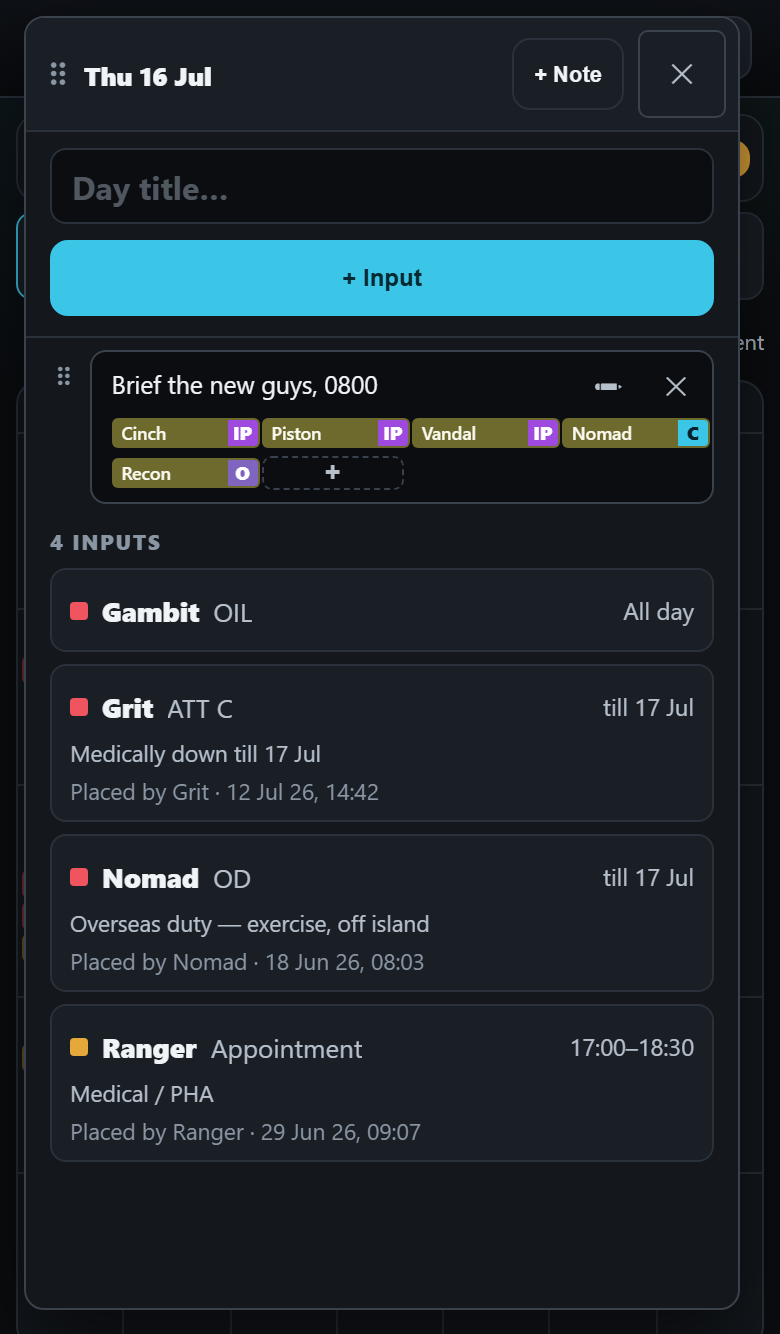
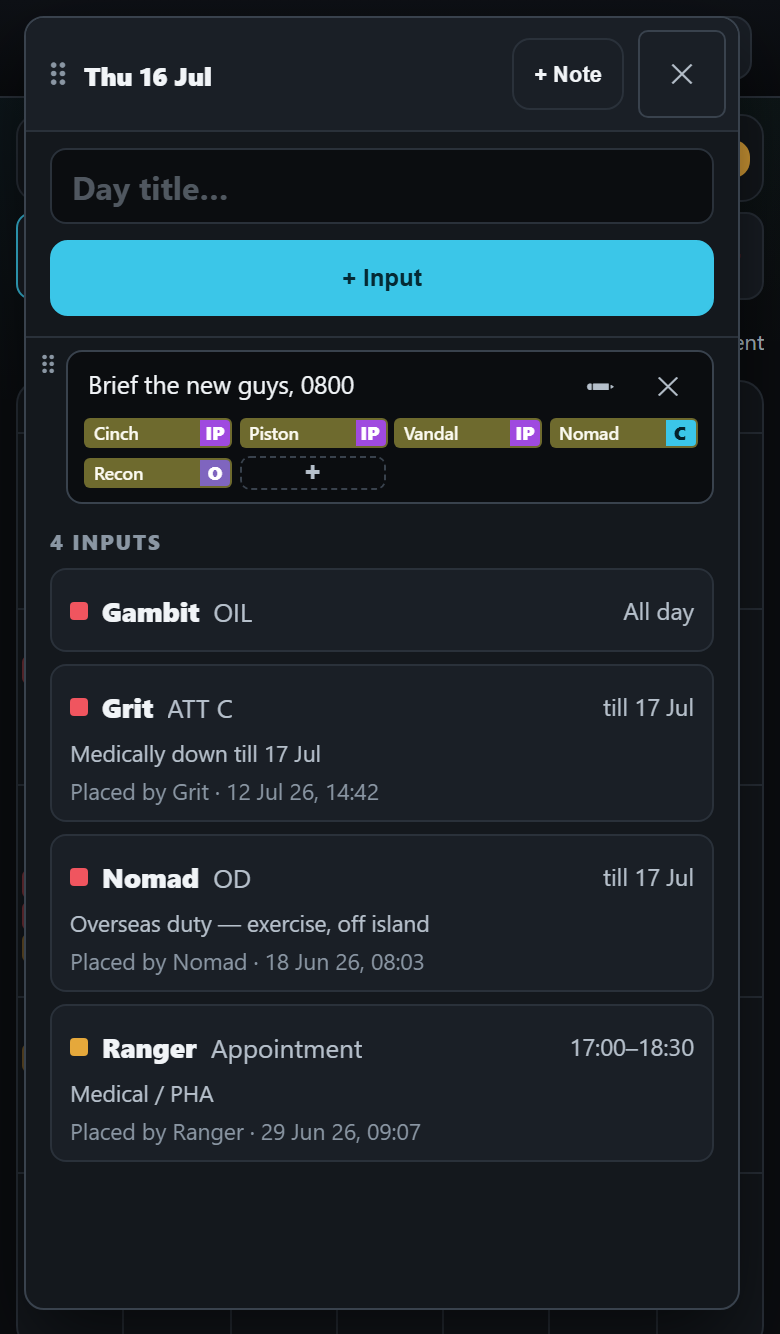
The note with its own pucks: even room either side of four pucks (D694)
"Can u shift the 6 dots to the left abit and shift the left text box border
slightly to the left such that when there is 4 pucks in a row, the right puck
spacing is the same as the left puck spacing." Redrawn: the first puck 9px
from the left border, the fourth 8.5px from the right.

Docs, a picture and the mock-up maker only - no file under raptor-port/src.

diff --git a/raptor-port/docs/mock/note-with-pucks.html b/raptor-port/docs/mock/note-with-pucks.html
@@ -61,7 +61,7 @@
     <div class="pair">
       <figure>
         <button type="button" data-zoom="img/note-with-pucks/c-compact.png" aria-label="Open picture: compact"><img src="img/note-with-pucks/c-compact.png" alt="Compact: the note's words on one slim line with a small pencil and cross, its five pucks four across straight under them with a dashed plus as the last, then the day's four inputs."></button>
-        <figcaption><span class="tag pick">A · Compact — chosen</span><b>People shown, four across</b><span><span class="size">77</span> points, down from 86. The line of words is now as slim as the box a note is typed in; the pencil and the cross are drawn small beside it.</span></figcaption>
+        <figcaption><span class="tag pick">A · Compact — chosen</span><b>People shown, four across</b><span><span class="size">77</span> points. The line of words is as slim as the box a note is typed in. The six dots and the box’s left edge are moved left, so four pucks sit with the same room on the right as on the left.</span></figcaption>
       </figure>
     </div>
     <p class="note">B, folded to one line, is not taken.</p>

diff --git a/DECISIONS.md b/DECISIONS.md
@@ -60,7 +60,7 @@ ruling, or an explicit no. **Not** ordinary task instructions ("run the tests", 
 | Tracker | `.claude/rules/decisions/tracker.md` | when a Tracker file is read (its code, docs, scripts, evidence) | D566, D564, D560, D474, D464, D462, D463, D377, D376, D375, D374, D373, D372, D371, D370, D191, D158, D157, D134, D132, D131, D130, D129, D128, D127, D126, D124, D123, D122, D121, D120, D64 |
 | People & accounts | `.claude/rules/decisions/people-accounts.md` | when an accounts, sign-in, Admin → Users, Quals, one-door or posting file is read (D390) | D329, D328, D327, D326, D325, D323, D322, D321, D320, D310, D309, D308, D307, D306, D305, D304, D303, D301, D300, D299, D298, D297, D296, D295, D294, D293, D292, D291, D290, D289, D288, D287, D286, D285, D284, D283, D282, D281, D280, D229, D227, D226, D225, D224, D223, D222, D221, D220, D219, D217, D216, D215, D214, D213, D211, D210, D204, D200, D218, D166, D165, D149 |
 | Leave War | `.claude/rules/decisions/leave-war.md` | when a Leave War file is read (its code, docs, e2e, evidence) | D679, D678, D677, D676, D674, D673, D670, D669, D461, D460, D418, D352, D365, D335, D334, D333, D332, D331, D330, D267, D266, D265, D264, D262, D160, D159 |
-| Scheduler & amendments | `.claude/rules/decisions/scheduler.md` | when a scheduler, board, engine, amendment or storage file is read | D693, D692, D691, D690, D689, D688, D687, D686, D685, D684, D683, D682, D681, D675, D671, D668, D665, D664, D663, D662, D661, D660, D659, D658, D657, D656, D655, D654, D653, D652, D651, D650, D649, D648, D647, D646, D645, D644, D643, D642, D641, D640, D639, D638, D637, D636, D635, D634, D633, D632, D631, D630, D629, D628, D627, D626, D624, D622, D621, D620, D619, D618, D617, D605, D603, D600, D599, D598, D597, D594, D593, D585, D584, D583, D582, D581, D580, D579, D578, D577, D576, D575, D574, D573, D572, D571, D570, D569, D563, D562, D561, D558, D557, D555, D554, D553, D552, D551, D550, D548, D547, D546, D545, D544, D537, D535, D532, D531, D530, D529, D527, D526, D525, D524, D523, D522, D521, D520, D519, D518, D517, D516, D514, D513, D512, D511, D510, D509, D507, D506, D505, D504, D503, D502, D501, D500, D498, D497, D488, D482, D481, D479, D478, D477, D475, D472, D471, D469, D468, D454, D452, D451, D450, D356, D355, D367, D364, D363, D362, D361, D360, D346, D345, D344, D340, D339, D338, D337, D279, D278, D277, D276, D275, D274, D272, D271, D270, D263, D212, D189, D188, D187, D186, D185, D184, D183, D179, D178, D177, D176, D175, D174, D172, D171, D170, D169, D168, D167, D119, D118, D117, D116, D114, D113, D111, D110, D109, D108, D107, D105, D103, D102, D101, D100, D99, D98, D97, D96, D95, D94, D93, D92, D91, D164, D161, D77, D66, D65, D51, D50, D47, D45, D44, D41, D40, D39, D38, D37, D36, D33, D27 |
+| Scheduler & amendments | `.claude/rules/decisions/scheduler.md` | when a scheduler, board, engine, amendment or storage file is read | D694, D693, D692, D691, D690, D689, D688, D687, D686, D685, D684, D683, D682, D681, D675, D671, D668, D665, D664, D663, D662, D661, D660, D659, D658, D657, D656, D655, D654, D653, D652, D651, D650, D649, D648, D647, D646, D645, D644, D643, D642, D641, D640, D639, D638, D637, D636, D635, D634, D633, D632, D631, D630, D629, D628, D627, D626, D624, D622, D621, D620, D619, D618, D617, D605, D603, D600, D599, D598, D597, D594, D593, D585, D584, D583, D582, D581, D580, D579, D578, D577, D576, D575, D574, D573, D572, D571, D570, D569, D563, D562, D561, D558, D557, D555, D554, D553, D552, D551, D550, D548, D547, D546, D545, D544, D537, D535, D532, D531, D530, D529, D527, D526, D525, D524, D523, D522, D521, D520, D519, D518, D517, D516, D514, D513, D512, D511, D510, D509, D507, D506, D505, D504, D503, D502, D501, D500, D498, D497, D488, D482, D481, D479, D478, D477, D475, D472, D471, D469, D468, D454, D452, D451, D450, D356, D355, D367, D364, D363, D362, D361, D360, D346, D345, D344, D340, D339, D338, D337, D279, D278, D277, D276, D275, D274, D272, D271, D270, D263, D212, D189, D188, D187, D186, D185, D184, D183, D179, D178, D177, D176, D175, D174, D172, D171, D170, D169, D168, D167, D119, D118, D117, D116, D114, D113, D111, D110, D109, D108, D107, D105, D103, D102, D101, D100, D99, D98, D97, D96, D95, D94, D93, D92, D91, D164, D161, D77, D66, D65, D51, D50, D47, D45, D44, D41, D40, D39, D38, D37, D36, D33, D27 |
 | OIL | `.claude/rules/decisions/oil.md` | when an OIL, Leave War, placeholder-puck or publishing file is read | D606, D592, D591, D470, D402, D401, D400, D261, D260, D163, D142, D82, D81, D80, D79, D52, D49, D48, D46, D43, D42, D35, D32, D31, D28, D26, D25, D24, D21, D20, D19, D18, D15, D3, D2, D1 |
 | The IT flow guide | `.claude/rules/decisions/it-flow-guide.md` | when a file of the IT flow guide is read (its deck folder, its scripts, its plans) | D403, D417, D416, D415, D414, D413, D412, D411, D410 |
 | Archive | `DECISIONS-ARCHIVE.md` | never — SEARCH it before telling him anything is undecided | D156, D133, D125, D155, D154, D153, D152, D150, D88, D83, D71, D61, D55, D34, D139, D146, D112, D115, D181, D202, D104, D230, D273, D336, D342, D341, D366, D182, D354, D180, D324, D467, D542, D543, D567, D540, D539, D538, D536, D534, D533, D528, D508, D496, D494, D492, D484, D483, D480, D476, D391, D173, D145, D85, D30, D559, D556, D549, D515, D565, D190, D586, D589, D604, D613, D612, D616, D666, D680 |

diff --git a/.claude/decisions-full/scheduler.md b/.claude/decisions-full/scheduler.md
@@ -8,6 +8,7 @@ change tail. Newest first; each row keeps the date it was recorded.
 
 | # | Date | His ruling, in his words where short enough | What it means | Where it lives now |
 |---|---|---|---|---|
+| D694 | 9 Oct 26 | With a picture of drawing A on his iPhone, the six dots and the fourth puck’s right end circled: *"Can u shift the 6 dots to the left abit and shift the left text box border slightly to the left such that when there is 4 pucks in a row, the right puck spacing is the same as the left puck spacing. Right now the right puck space I circled is like touching the border"* | **IN THE NOTE THAT CARRIES ITS OWN PUCKS, FOUR PUCKS IN A ROW SIT WITH THE SAME ROOM ON THE RIGHT AS ON THE LEFT — THE LAST PUCK NEVER TOUCHES THE BOX’S BORDER; THE ROOM IS FOUND BY MOVING THE SIX DOTS, AND THE BOX’S LEFT EDGE, A LITTLE TO THE LEFT.** **The agent’s reading, to tell him:** the pucks keep their size and stay four across; the box grows leftward into the room the six dots give up — its right edge stays in line with the inputs under it. | `OUTSTANDING.md` `[CAL-NOTE-WITH-PUCKS]` (the design he chose, D692, D694) |
 | D693 | 9 Oct 26 | With two pictures from his iPhone of the Inputs tab, the filter button pressed and not — pressed, the gear has dropped to a line of its own under the filter fields and the filter button has slid into its place: *"Why did the setting button move? Can the filter and the setting button stay when the filter button is pressed"* | **ON A PHONE THE FILTER BUTTON AND THE SETTINGS GEAR STAY WHERE THEY ARE WHEN THE FILTERS ARE OPENED — THE FILTER FIELDS OPEN ON THEIR OWN LINE UNDER THE ROW, AND NOTHING ON THE ROW MOVES.** His standing rule of 2 Sep 26 again (a control tapped repeatedly must not move). **The agent’s readings, to tell him:** (1) it moved because the folded-away fields stand between the two buttons, and opened they take a whole line — pushing the gear under them; (2) built by drawing the opened fields after the whole row; the row itself is as it was; (3) a desktop has no filter button (its three fields are always on the row), so nothing changes there. | `raptor-port/docs/ui-contracts.md` ("The Inputs calendar" — its one tools row, D693); `raptor-port/docs/handpass/2026-10-08-inputs-sans-calendar-check.md` §20 |
 | D692 | 9 Oct 26 | Shown the two compact drawings of a note that carries its own pucks (A — people shown, four across; B — folded to one line), with a picture from his iPhone of a note being typed in the built app, its text box one slim line: *"A looks good but can u make the text box even shorter in height. Like u can see that the text box is this much space used only"* | **THE NOTE THAT CARRIES ITS OWN PUCKS IS DRAWING A — COMPACT, ITS PEOPLE SHOWN FOUR ACROSS UNDER ITS WORDS — AND THE LINE THAT HOLDS ITS WORDS IS SLIMMER STILL: NO TALLER THAN THE BOX A NOTE IS TYPED IN.** B (folded to one line) is not taken. **The agent’s readings, to tell him:** (1) the words line was tall because the pencil and the cross beside it were drawn at a full finger’s size; it is redrawn with the line as slim as the typing box and the two buttons small beside it — when it is built their press area can still reach past what is drawn, and how small they may LOOK is his word here (D487); (2) whether a note may hold people and no words is still open — he saw the drawing and has not said. | `OUTSTANDING.md` `[CAL-NOTE-WITH-PUCKS]` (the design he chose, D692) |
 | D691 | 9 Oct 26 | With a picture from his iPhone of "How this works" open on the Inputs calendar, its fifth line reading "File by the end of the Wednesday two weeks before the week.": *"For point 5 u should bold the late input date which is in this case Wednesday two weeks etc"* | **IN "HOW THIS WORKS", THE LATE CUT-OFF AS IT IS SET IS IN BOLD — "THE END OF THE WEDNESDAY TWO WEEKS BEFORE" — SO THE ONE THING A MAN MUST REMEMBER STANDS OUT OF THE SENTENCE.** **The agent’s readings, to tell him:** (1) on both calendars — the Inputs one he pictured and the SANS one, whose approved drawing already marked those words; (2) the bold words are whatever the setting says, and change when it changes (D628): where the cut-off is a number of days it is "at least 3 days before" that is bold; (3) the same bold the other lines of the fold use for "bar", "red" and "several days" — no new colour or box. | `raptor-port/docs/ui-contracts.md` ("The Inputs calendar" — "How this works", D691); `raptor-port/docs/handpass/2026-10-08-inputs-sans-calendar-check.md` §19 |

diff --git a/OUTSTANDING.md b/OUTSTANDING.md
@@ -1658,6 +1658,8 @@ waive owed reads or authorize a live merge.
 
 **THE DESIGN HE CHOSE (D692, 9 Oct 26 — "A looks good but can u make the text box even shorter in height"):** drawing A — COMPACT: the note’s words on one line no taller than the box a note is typed in (28px drawn, the pencil and the cross small beside it), its people four across straight under, a dashed "+" as the last of them; 77px before the first input on a small phone, against today’s 146. B (folded) is not taken. `raptor-port/docs/mock/img/note-with-pucks/c-compact.png` is the picture of record once he has answered the one question left: **may a note hold people and no words** (`e-people-only.png` — drawn for him, not yet answered). Build after the calendar job’s merge (D690).
 
+**AND EVEN ROOM EITHER SIDE (D694, 9 Oct 26):** the six dots and the box’s left edge moved a little left, the box’s sides padded alike, each puck held inside its quarter — in the drawing the first puck stands 9px from the left border and the fourth 8.5px from the right, a puck 74px wide. `c-compact.png` is redrawn so.
+
 ### [CAL-CHECK-SEEN] The small finds of the calendar job's bug check, none fixed (8 Oct 26)
 **Found, not fixed** — each with its walker's report under `raptor-port/docs/handpass/parts/cal-<letter>.md` and pictures under `raptor-port/docs/img/handpass/2026-10-08-inputs-sans-calendar-check/<letter>/`. **A phone on its SIDE (844 × 390):** the number pad covers the Required cell being typed (B); windows lie over the top bar's Undo / Redo, the month's arrows and gear, and the failed-save band's Retry until dragged or closed (A, H); the SANS Highlight list runs off the foot (D). **Gestures:** the first tap after a finger-drag of a counter in Rearrange is ignored, the second works (B — one walker, not seen by the host); Escape pressed during a bar's mouse drag leaves the picked-up copy following the pointer until the next drag (E — one walker, not seen by the host). **Windows:** the "Calendar" window on a 568-tall phone is 588 tall once dragged and brought back, its last week cut (C); Escape on an opened day's Delete question, after a press on the page behind, closes the whole day (C); Escape does nothing while a control on the page behind has the keyboard (the shell's rule, as built — C); a settings window left open stays up when the page is changed (C); "Calendar…" from the SANS day at 1440 lands exactly over that day's window (A). **The editor:** after a bar's drag is undone the "changed while this window was open" note stays, with "theirs" equal to the value at opening (G); a reader's OIL row draws a "Change…" button that cannot be pressed (F); with the members' switch off the filer is told "Only <himself> — who filed it — or an admin can change this" and offered "Take me out" (F); a group's OIL question after a drag is titled with one man's name (F). **The List:** its row does not flash on Undo or Redo where a month's bar does (E). **Outside this job, seen in passing:** the Quals save toast reads "Quals saved (prototype — writes to Dataverse in the full build)" — a prototype caveat on screen (the 25 Aug 26 rule: UI copy reads production) (D). **As filed:** low, his to place; the sheet's §7.
 

diff --git a/.claude/rules/decisions/scheduler.md b/.claude/rules/decisions/scheduler.md
@@ -46,6 +46,7 @@ speed — `raptor-port/docs/performance.md`; what is stored — `raptor-port/doc
 
 | # | Date | The rule |
 |---|---|---|
+| D694 | 9 Oct 26 | IN THE NOTE THAT CARRIES ITS OWN PUCKS, FOUR PUCKS IN A ROW SIT WITH THE SAME ROOM ON THE RIGHT AS ON THE LEFT — THE LAST PUCK NEVER TOUCHES THE BOX’S BORDER; THE ROOM IS FOUND BY MOVING THE SIX DOTS, AND THE BOX’S LEFT EDGE, A LITTLE TO THE LEFT. |
 | D693 | 9 Oct 26 | ON A PHONE THE FILTER BUTTON AND THE SETTINGS GEAR STAY WHERE THEY ARE WHEN THE FILTERS ARE OPENED — THE FILTER FIELDS OPEN ON THEIR OWN LINE UNDER THE ROW, AND NOTHING ON THE ROW MOVES. |
 | D692 | 9 Oct 26 | THE NOTE THAT CARRIES ITS OWN PUCKS IS DRAWING A — COMPACT, ITS PEOPLE SHOWN FOUR ACROSS UNDER ITS WORDS — AND THE LINE THAT HOLDS ITS WORDS IS SLIMMER STILL: NO TALLER THAN THE BOX A NOTE IS TYPED IN. |
 | D691 | 9 Oct 26 | IN "HOW THIS WORKS", THE LATE CUT-OFF AS IT IS SET IS IN BOLD — "THE END OF THE WEDNESDAY TWO WEEKS BEFORE" — SO THE ONE THING A MAN MUST REMEMBER STANDS OUT OF THE SENTENCE. |
